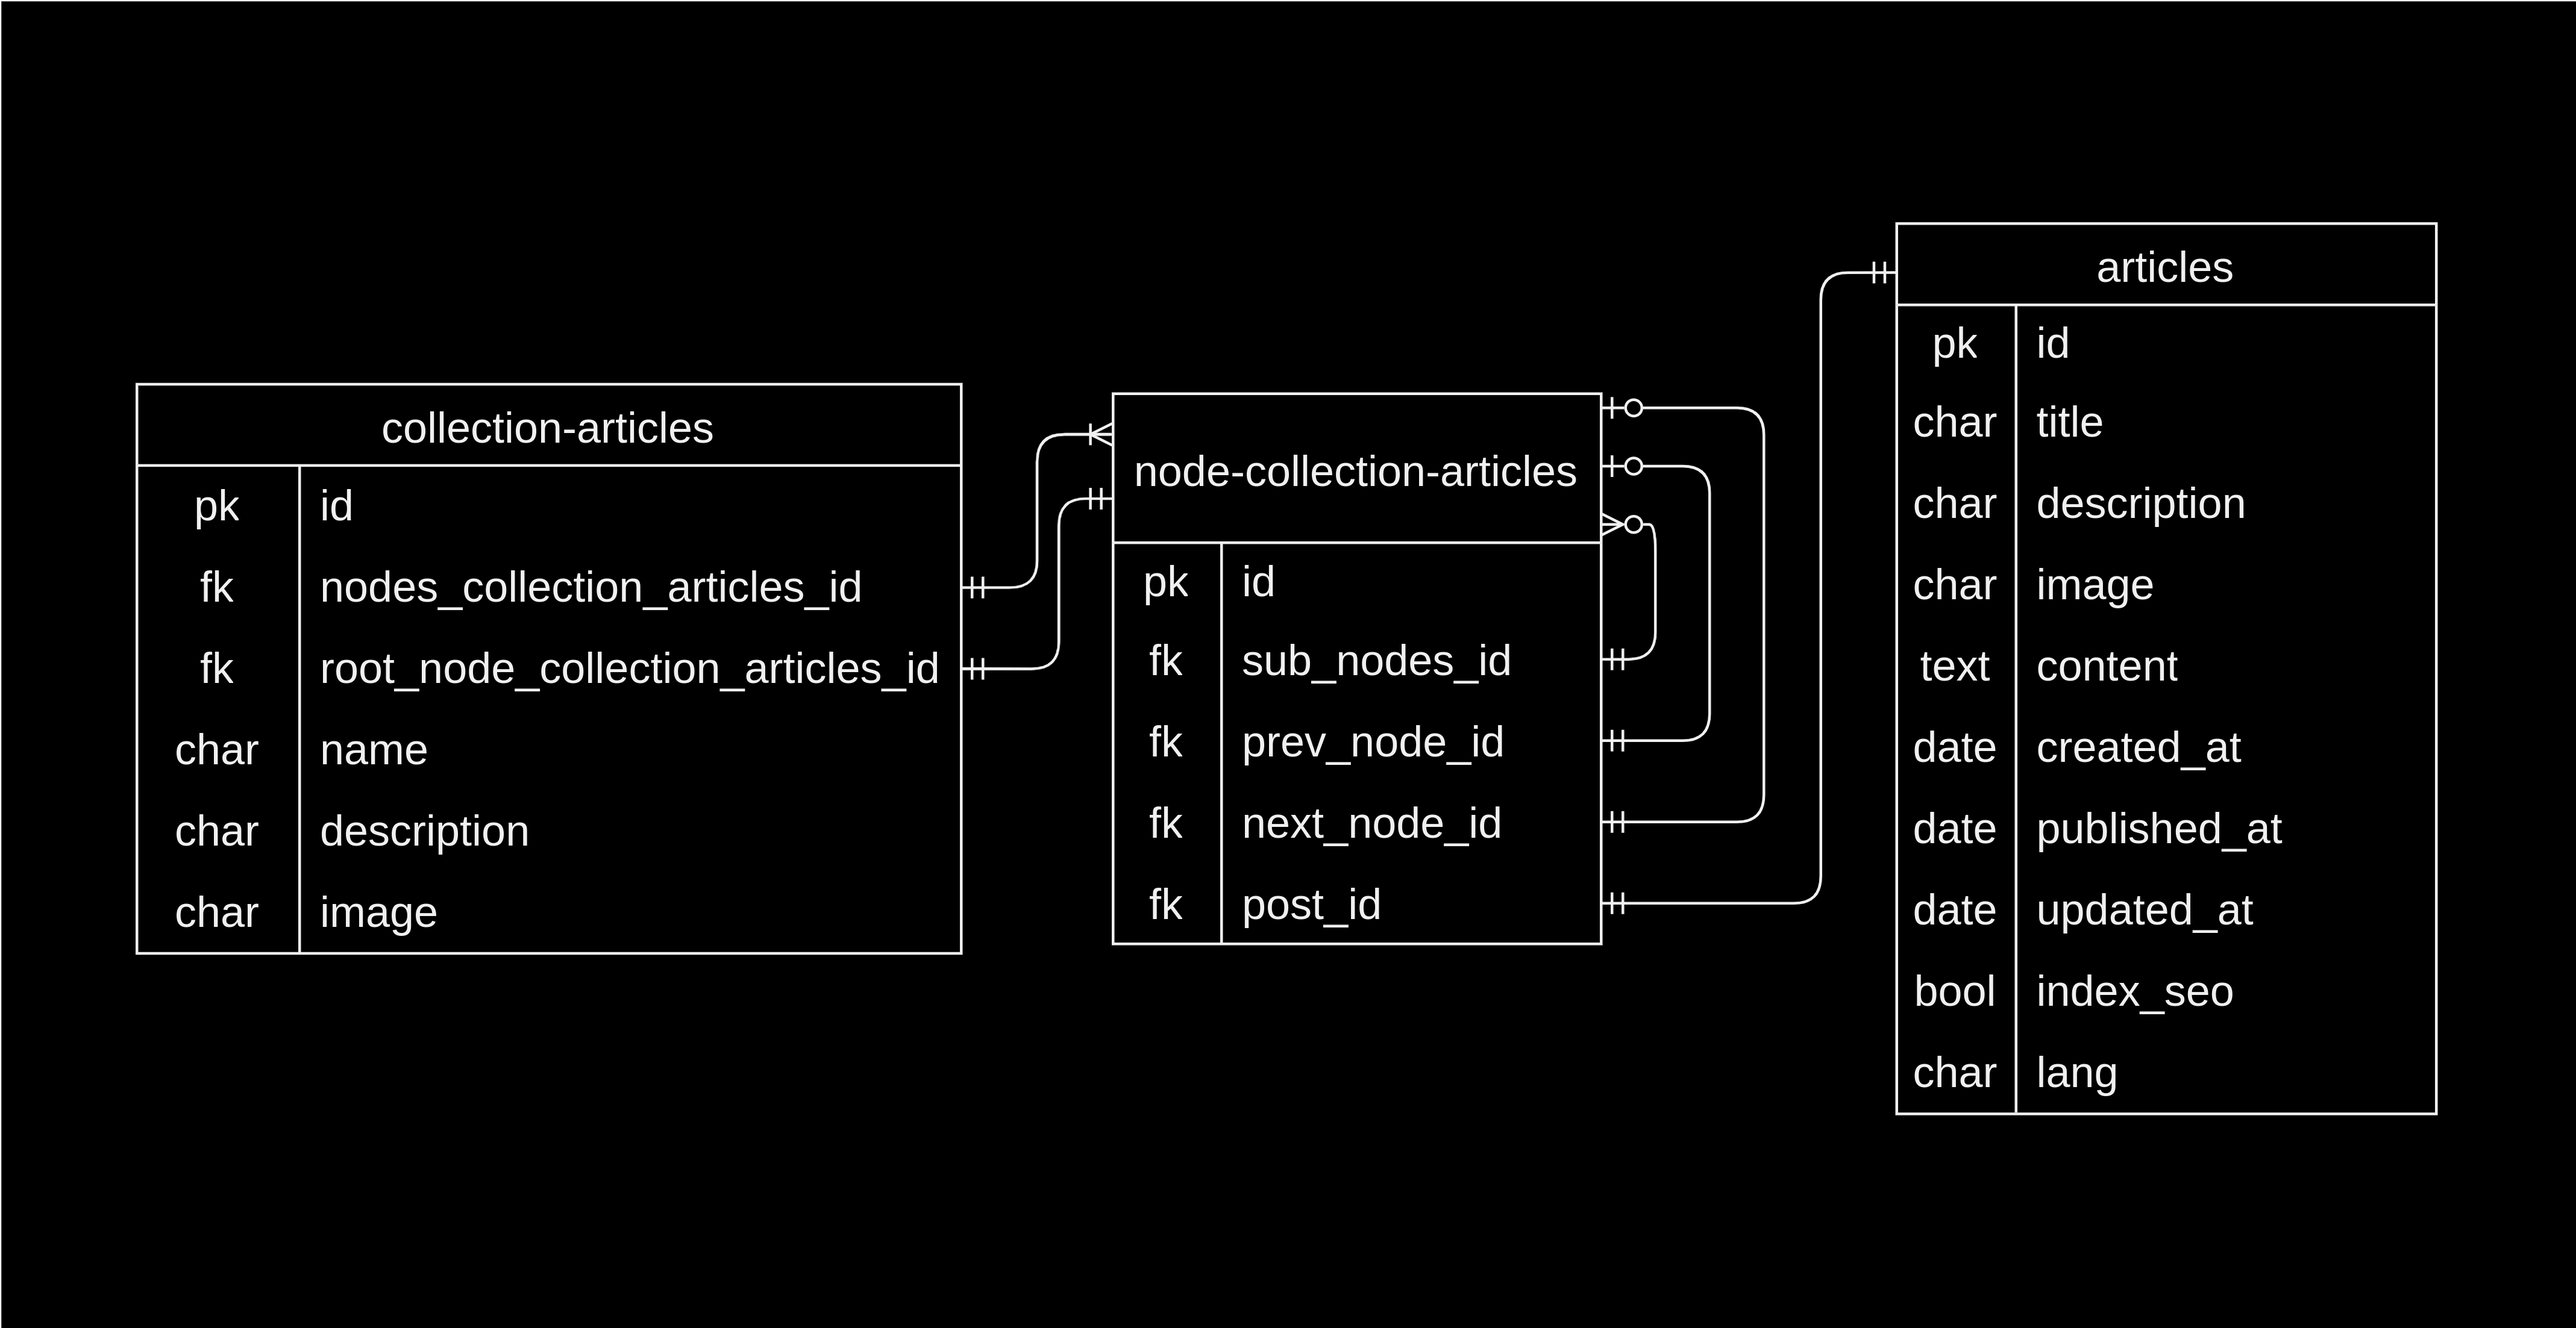
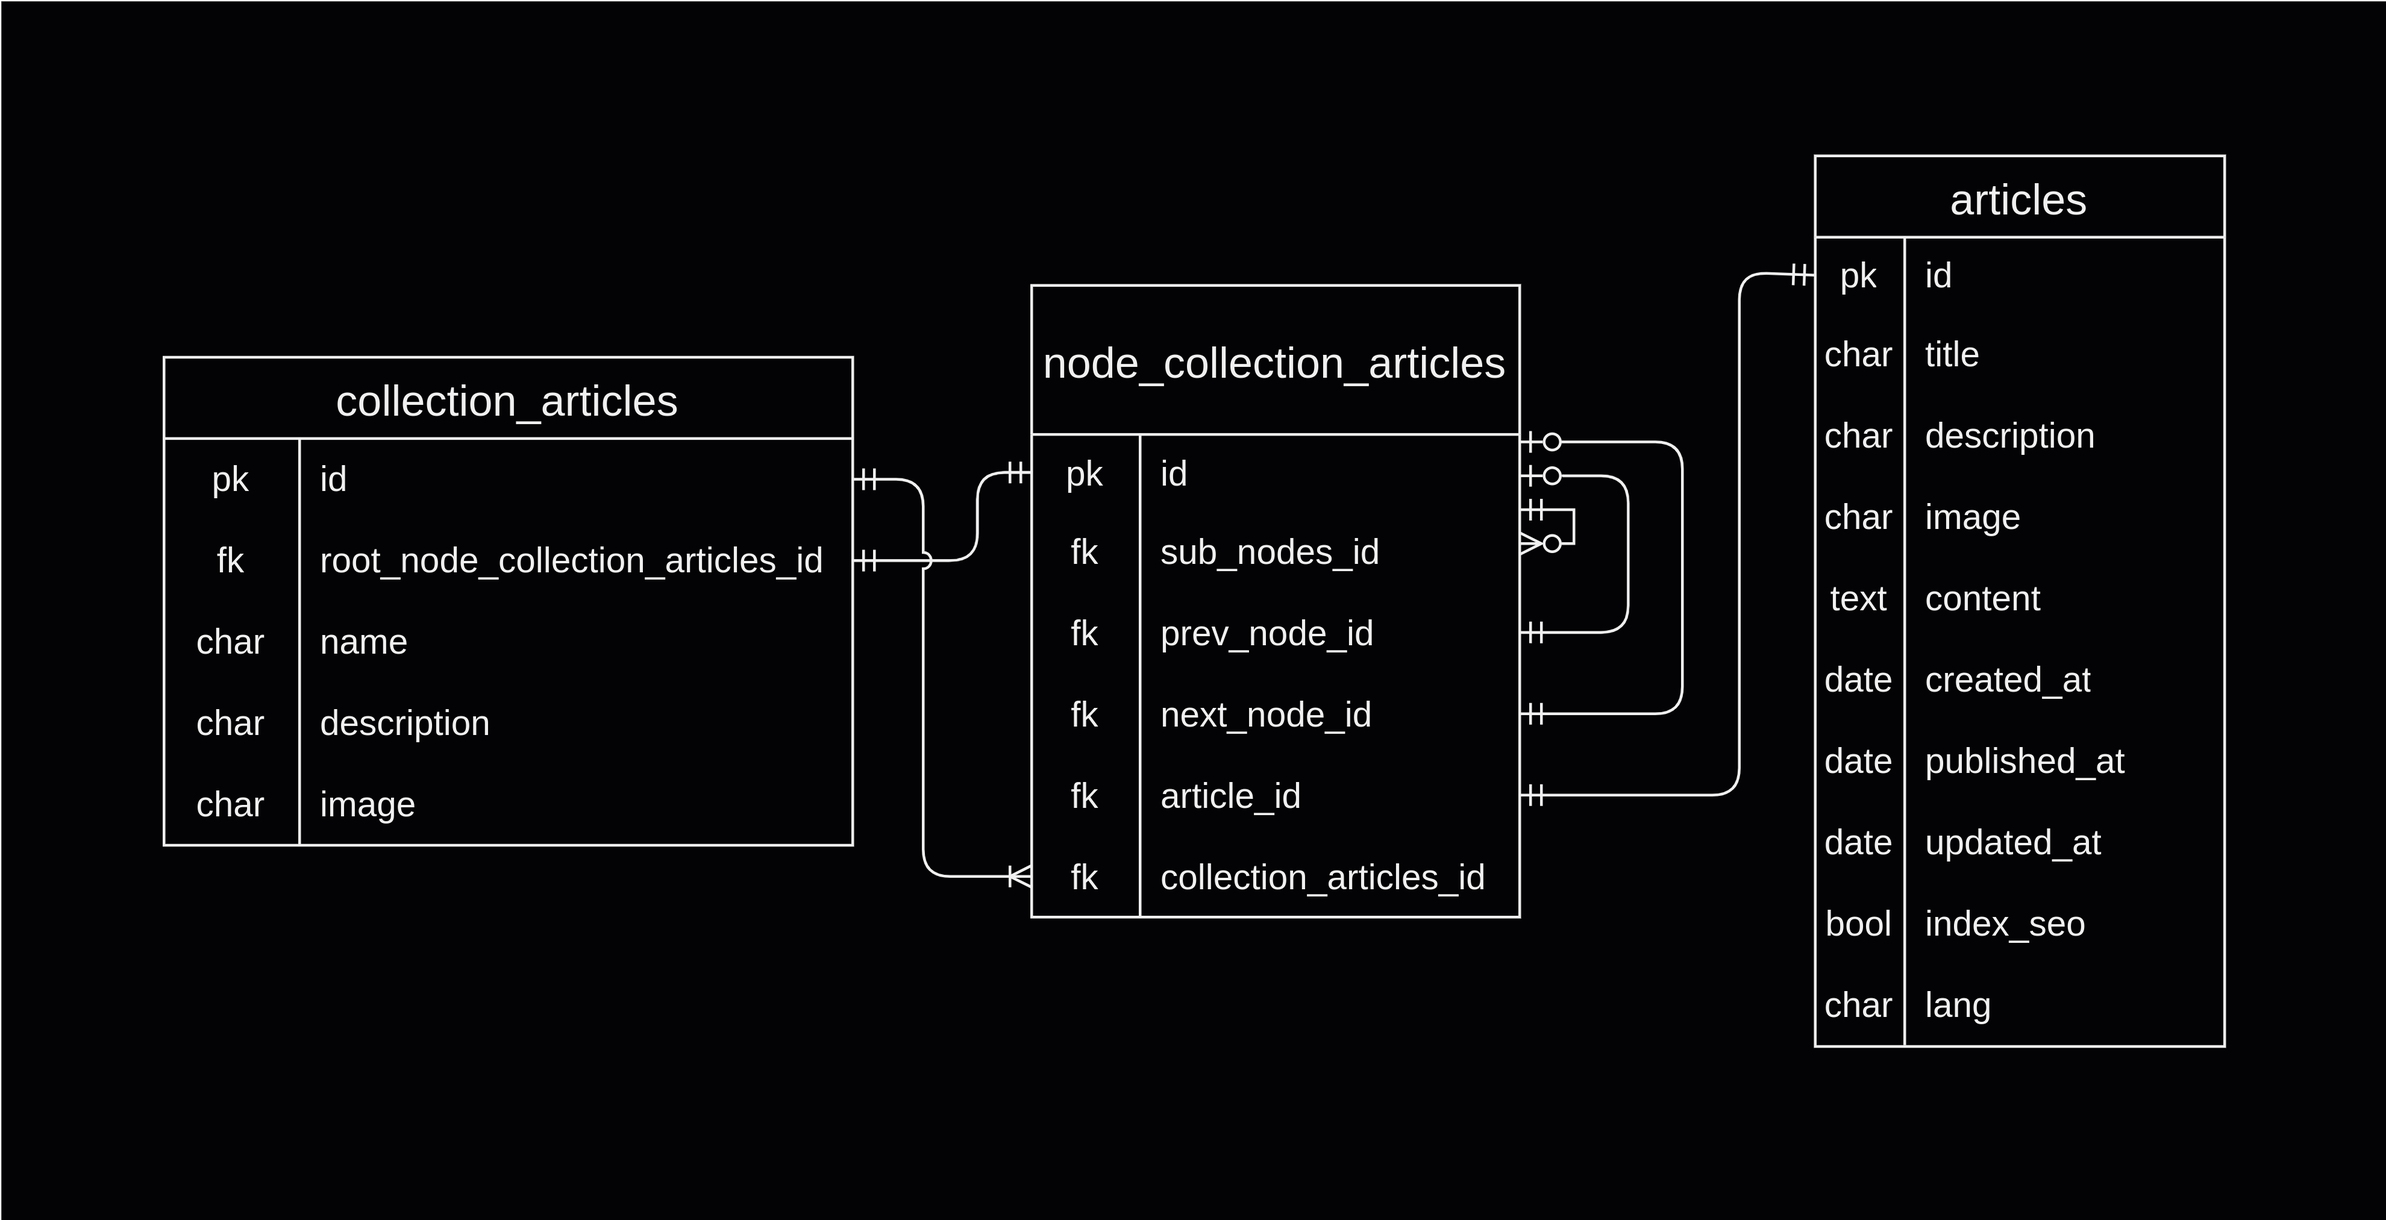
add model data

diff --git a/api/src/articles/node-collection-articles.entity.ts b/api/src/articles/node-collection-articles.entity.ts
@@ -1,0 +1,38 @@
+import { Articles } from '@articles/articles.entity';
+import { CollectionArticles } from '@articles/collection-articles.entity';
+import {
+  Entity,
+  PrimaryGeneratedColumn,
+  OneToOne,
+  JoinColumn,
+  ManyToOne,
+} from 'typeorm';
+
+@Entity('node_collection_articles')
+export class NodeCollectionArticles {
+  @PrimaryGeneratedColumn()
+  id: number;
+
+  @ManyToOne(() => NodeCollectionArticles, { nullable: true })
+  @JoinColumn({ name: 'sub_nodes_id' })
+  subNodes: NodeCollectionArticles;
+
+  @OneToOne(() => NodeCollectionArticles, { nullable: true })
+  @JoinColumn({ name: 'prev_node_id' })
+  prevNode: NodeCollectionArticles;
+
+  @OneToOne(() => NodeCollectionArticles, { nullable: true })
+  @JoinColumn({ name: 'next_node_id' })
+  nextNode: NodeCollectionArticles;
+
+  @OneToOne(() => Articles)
+  @JoinColumn({ name: 'article_id' })
+  article: Articles;
+
+  @ManyToOne(
+    () => CollectionArticles,
+    (collection) => collection.nodesCollectionArticles,
+  )
+  @JoinColumn({ name: 'collection_articles_id' })
+  collectionArticles: CollectionArticles;
+}

diff --git a/api/src/articles/articles.controller.ts b/api/src/articles/articles.controller.ts
@@ -1,0 +1,45 @@
+import {
+  Body,
+  Controller,
+  Delete,
+  Get,
+  Param,
+  Post,
+  Put,
+} from '@nestjs/common';
+import { ArticlesService } from '@articles/articles.service';
+import { Articles } from '@articles/articles.entity';
+
+@Controller('articles')
+export class ArticlesController {
+  constructor(private service: ArticlesService) {}
+
+  @Get()
+  findAll(): Promise<Articles[]> {
+    return this.service.findAll();
+  }
+
+  @Post()
+  async save(@Body() entitytData: Articles): Promise<any> {
+    return this.service.save(entitytData);
+  }
+
+  @Get(':id')
+  async findById(@Param('id') id: number): Promise<Articles | null> {
+    return this.service.findById(+id);
+  }
+
+  @Put(':id')
+  async update(
+    @Param('id') id: number,
+    @Body() entityData: Articles,
+  ): Promise<any> {
+    entityData.id = Number(id);
+    return this.service.update(entityData);
+  }
+
+  @Delete(':id')
+  async delete(@Param('id') id: number): Promise<any> {
+    return this.service.delete(+id);
+  }
+}

diff --git a/api/src/app.module.ts b/api/src/app.module.ts
@@ -2,18 +2,21 @@ import { Module } from '@nestjs/common';
 import { AppController } from './app.controller';
 import { AppService } from './app.service';
 import { TypeOrmModule } from '@nestjs/typeorm';
-import { PostsModule } from '@posts/posts.module';
-import { Posts } from '@posts/posts.entity';
+import { ArticlesModule } from '@articles/articles.module';
+import { Articles } from '@articles/articles.entity';
+import { CollectionArticles } from '@articles/collection-articles.entity';
+import { NodeCollectionArticles } from '@articles/node-collection-articles.entity';
 
 @Module({
   imports: [
     TypeOrmModule.forRoot({
       type: 'sqlite',
       database: 'db',
-      entities: [Posts],
+      entities: [Articles, CollectionArticles, NodeCollectionArticles],
       synchronize: true,
+      autoLoadEntities: true,
     }),
-    PostsModule,
+    ArticlesModule,
   ],
   controllers: [AppController],
   providers: [AppService],

diff --git a/api/src/articles/articles.service.ts b/api/src/articles/articles.service.ts
@@ -1,0 +1,32 @@
+import { Injectable } from '@nestjs/common';
+import { InjectRepository } from '@nestjs/typeorm';
+import { DeleteResult, Repository, UpdateResult } from 'typeorm';
+import { Articles } from '@articles/articles.entity';
+
+@Injectable()
+export class ArticlesService {
+  constructor(
+    @InjectRepository(Articles)
+    private repo: Repository<Articles>,
+  ) {}
+
+  async findAll(): Promise<Articles[]> {
+    return await this.repo.find();
+  }
+
+  async findById(id: number): Promise<Articles | null> {
+    return await this.repo.findOneBy({ id: id });
+  }
+
+  async save(entity: Articles): Promise<Articles> {
+    return await this.repo.save(entity);
+  }
+
+  async update(entity: Articles): Promise<UpdateResult> {
+    return await this.repo.update(entity.id, entity);
+  }
+
+  async delete(id: number): Promise<DeleteResult> {
+    return await this.repo.delete(id);
+  }
+}

diff --git a/api/src/articles/collection-articles.entity.ts b/api/src/articles/collection-articles.entity.ts
@@ -1,0 +1,31 @@
+import {
+  Entity,
+  PrimaryGeneratedColumn,
+  Column,
+  OneToOne,
+  JoinColumn,
+  OneToMany,
+} from 'typeorm';
+import { NodeCollectionArticles } from '@articles/node-collection-articles.entity';
+
+@Entity('collection_articles')
+export class CollectionArticles {
+  @PrimaryGeneratedColumn()
+  id: number;
+
+  @OneToMany(() => NodeCollectionArticles, (node) => node.collectionArticles)
+  nodesCollectionArticles: NodeCollectionArticles[];
+
+  @OneToOne(() => NodeCollectionArticles)
+  @JoinColumn({ name: 'root_node_collection_articles_id' })
+  rootNodeCollectionArticles: NodeCollectionArticles;
+
+  @Column()
+  name: string;
+
+  @Column()
+  description: string;
+
+  @Column()
+  image: string;
+}

diff --git a/api/src/articles/articles.module.ts b/api/src/articles/articles.module.ts
@@ -1,0 +1,20 @@
+import { Module } from '@nestjs/common';
+import { TypeOrmModule } from '@nestjs/typeorm';
+import { ArticlesService } from '@articles/articles.service';
+import { ArticlesController } from '@articles/articles.controller';
+import { Articles } from '@articles/articles.entity';
+import { CollectionArticles } from '@articles/collection-articles.entity';
+import { NodeCollectionArticles } from '@articles/node-collection-articles.entity';
+
+@Module({
+  imports: [
+    TypeOrmModule.forFeature([
+      Articles,
+      CollectionArticles,
+      NodeCollectionArticles,
+    ]),
+  ],
+  providers: [ArticlesService],
+  controllers: [ArticlesController],
+})
+export class ArticlesModule {}

diff --git a/api/src/articles/articles.entity.ts b/api/src/articles/articles.entity.ts
@@ -1,0 +1,40 @@
+import {
+  Entity,
+  Column,
+  PrimaryGeneratedColumn,
+  CreateDateColumn,
+  UpdateDateColumn,
+} from 'typeorm';
+
+@Entity('articles')
+export class Articles {
+  @PrimaryGeneratedColumn()
+  id: number;
+
+  @Column()
+  title: string;
+
+  @Column()
+  description: string;
+
+  @Column()
+  image: string;
+
+  @Column()
+  content: string;
+
+  @CreateDateColumn()
+  createdAt: Date;
+
+  @UpdateDateColumn()
+  updatedAt: Date;
+
+  @Column()
+  publishedAt: Date;
+
+  @Column()
+  isIndexSeo: boolean;
+
+  @Column()
+  lang: string;
+}
